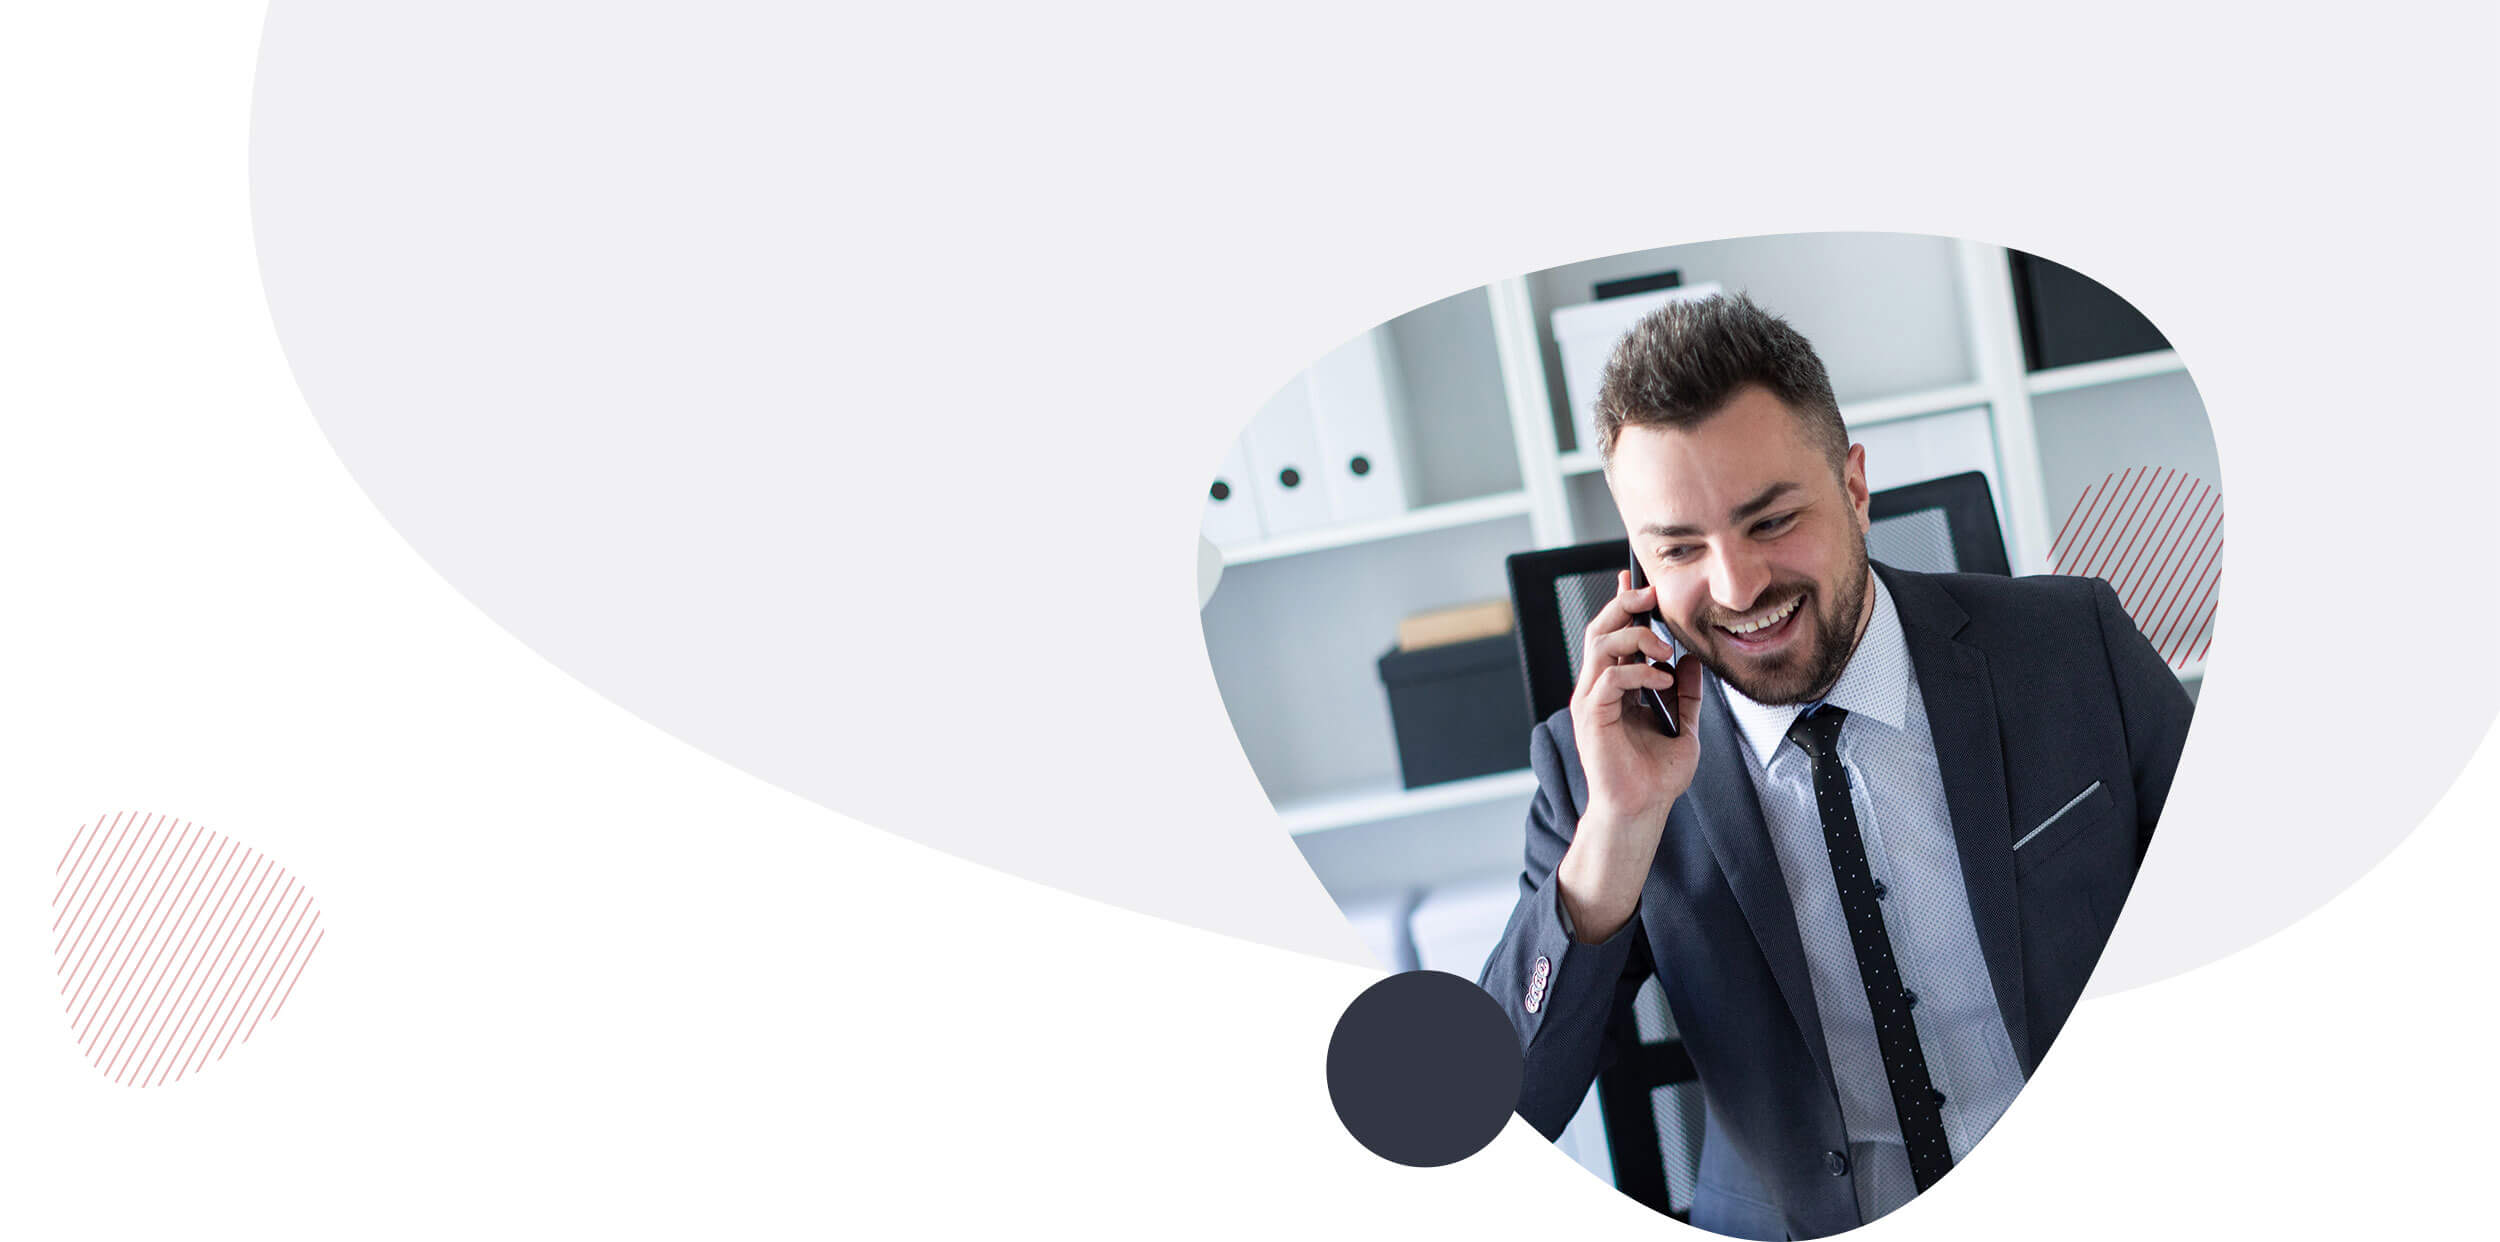
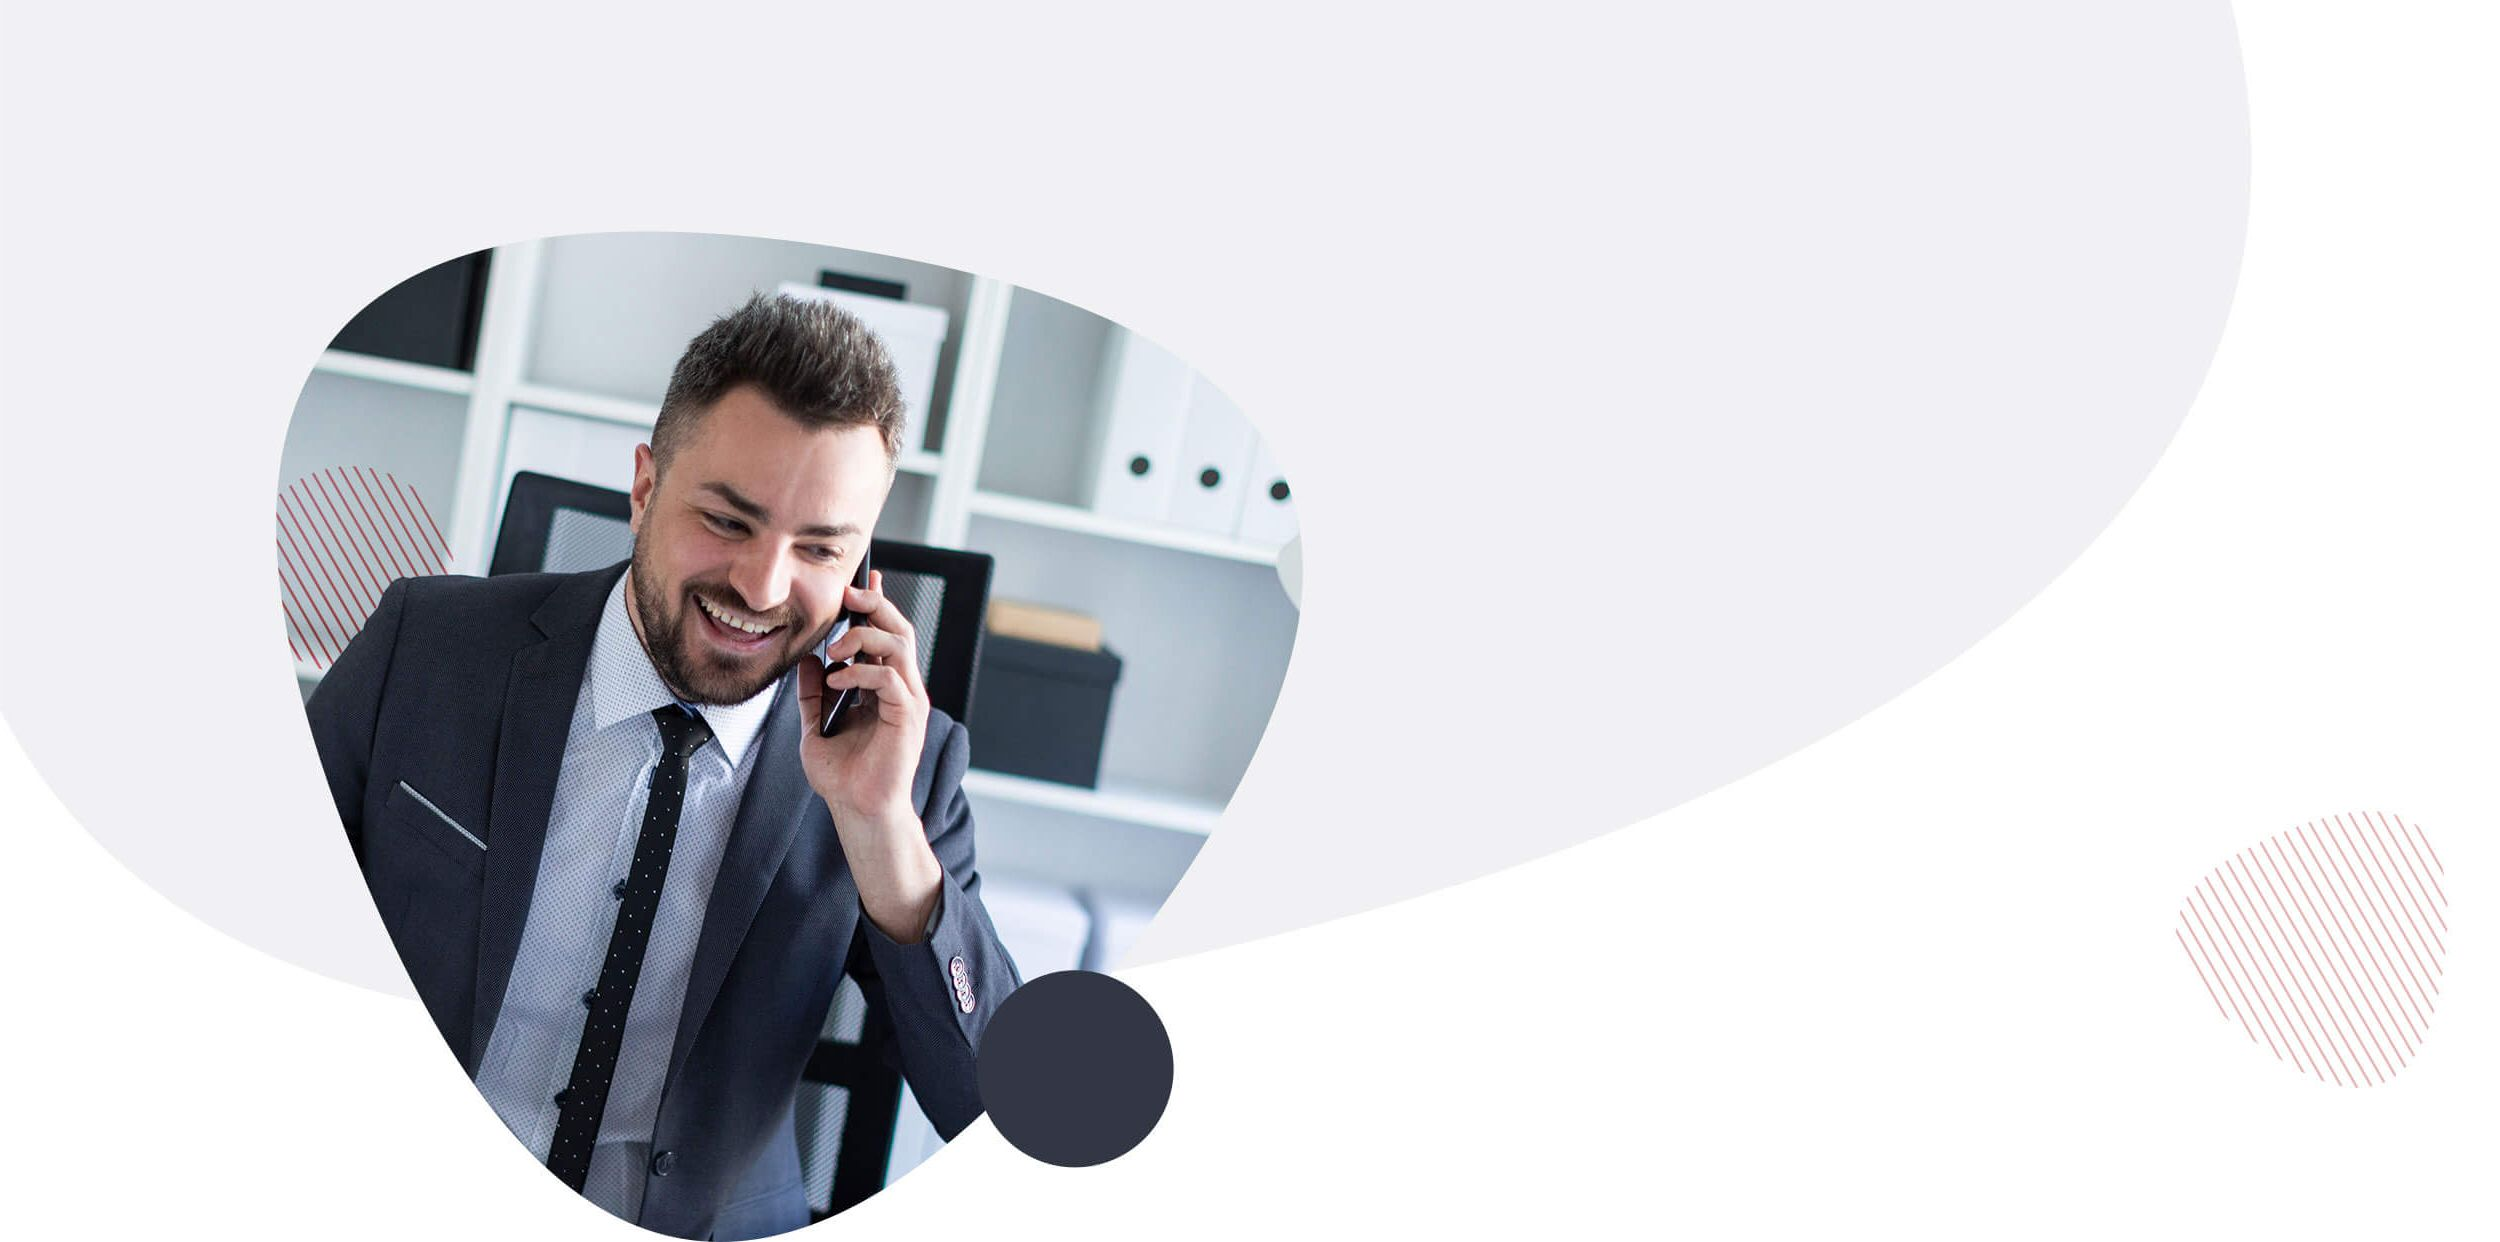
Carousel Slider adjust

diff --git a/lib/src/my_web_page.dart b/lib/src/my_web_page.dart
@@ -7,10 +7,19 @@ import 'package:carousel_slider/carousel_slider.dart';
 import 'package:flutter/material.dart';
 
 class MyWebPage extends StatelessWidget {
-  final List<String> imageList = [
-    'images/asesor-oficina.jpg',
-    'images/asesora-oficina.jpg',
-    'images/asesora2-oficina.jpg'
+  List imageList = [
+    [
+      'images/asesor-oficina.jpg',
+      'OUTSOURCING CONTABLE',
+    ],
+    [
+      'images/asesora-oficina.jpg',
+      'AUDITORIA Y REVISORIA FISCAL',
+    ],
+    [
+      'images/asesora2-oficina.jpg',
+      'CONSULTORIA GERENCIAL',
+    ],
   ];
 
   //const MyWebPage({super.key});
@@ -33,21 +42,90 @@ class MyWebPage extends StatelessWidget {
                     children: [
                       CarouselSlider(
                         options: CarouselOptions(
-                          height: 600.0,
+                          //height: 400.0,
                           autoPlay: true,
+                          //enlargeCenterPage: true,
+                          viewportFraction: 0.99,
                         ),
                         items: imageList.map((i) {
                           return Builder(
                             builder: (BuildContext context) {
                               return Container(
                                 width: MediaQuery.of(context).size.width,
-                                margin: EdgeInsets.symmetric(horizontal: 5.0),
-                                // decoration: BoxDecoration(color: Colors.green),
-                                // child: Text(
-                                //   'text $i',
-                                //   style: TextStyle(fontSize: 16.0),
-                                // ),
-                                child: Image.asset(i),
+                                child: Stack(
+                                  children: [
+                                    Image.asset(
+                                      i[0],
+                                      fit: BoxFit.cover,
+                                    ),
+                                    Row(
+                                      mainAxisAlignment: MainAxisAlignment.end,
+                                      children: [
+                                        Column(
+                                          mainAxisAlignment:
+                                              MainAxisAlignment.center,
+                                          children: [
+                                            Padding(
+                                              padding: EdgeInsets.symmetric(
+                                                  vertical: 5.0,
+                                                  horizontal: 20.0),
+                                              child: Text(
+                                                i[1],
+                                                style: TextStyle(
+                                                  color: Color(0xFF0000ff),
+                                                  fontSize: 40.0,
+                                                  fontWeight: FontWeight.bold,
+                                                ),
+                                              ),
+                                            ),
+                                            SizedBox(
+                                              height: 50,
+                                            ),
+                                            ElevatedButton(
+                                              onPressed: () {},
+                                              style: ElevatedButton.styleFrom(
+                                                backgroundColor:
+                                                    Color(0xFFced842),
+                                                shape: RoundedRectangleBorder(
+                                                  borderRadius:
+                                                      BorderRadius.circular(
+                                                          20.0),
+                                                ),
+                                                elevation: 5.0,
+                                              ),
+                                              child: Padding(
+                                                padding:
+                                                    const EdgeInsets.all(10.0),
+                                                child: Wrap(
+                                                  children: const <Widget>[
+                                                    Text(
+                                                      'CONTACTENOS',
+                                                      style: TextStyle(
+                                                        fontSize: 16,
+                                                        color: Colors.white,
+                                                        fontWeight:
+                                                            FontWeight.bold,
+                                                      ),
+                                                    ),
+                                                    SizedBox(
+                                                      width: 10,
+                                                    ),
+                                                    Icon(
+                                                      Icons
+                                                          .arrow_forward_ios_outlined,
+                                                      color: Colors.white,
+                                                      size: 20.0,
+                                                    ),
+                                                  ],
+                                                ),
+                                              ),
+                                            ),
+                                          ],
+                                        ),
+                                      ],
+                                    ),
+                                  ],
+                                ),
                               );
                             },
                           );

diff --git a/lib/src/navigation_bar/nav_bar.dart b/lib/src/navigation_bar/nav_bar.dart
@@ -21,7 +21,7 @@ class DesktopNavBar extends StatelessWidget {
   @override
   Widget build(BuildContext context) {
     return Container(
-      color: Colors.amber,
+      color: Colors.transparent,
       child: Padding(
         padding: EdgeInsets.all(10),
         child: Row(
